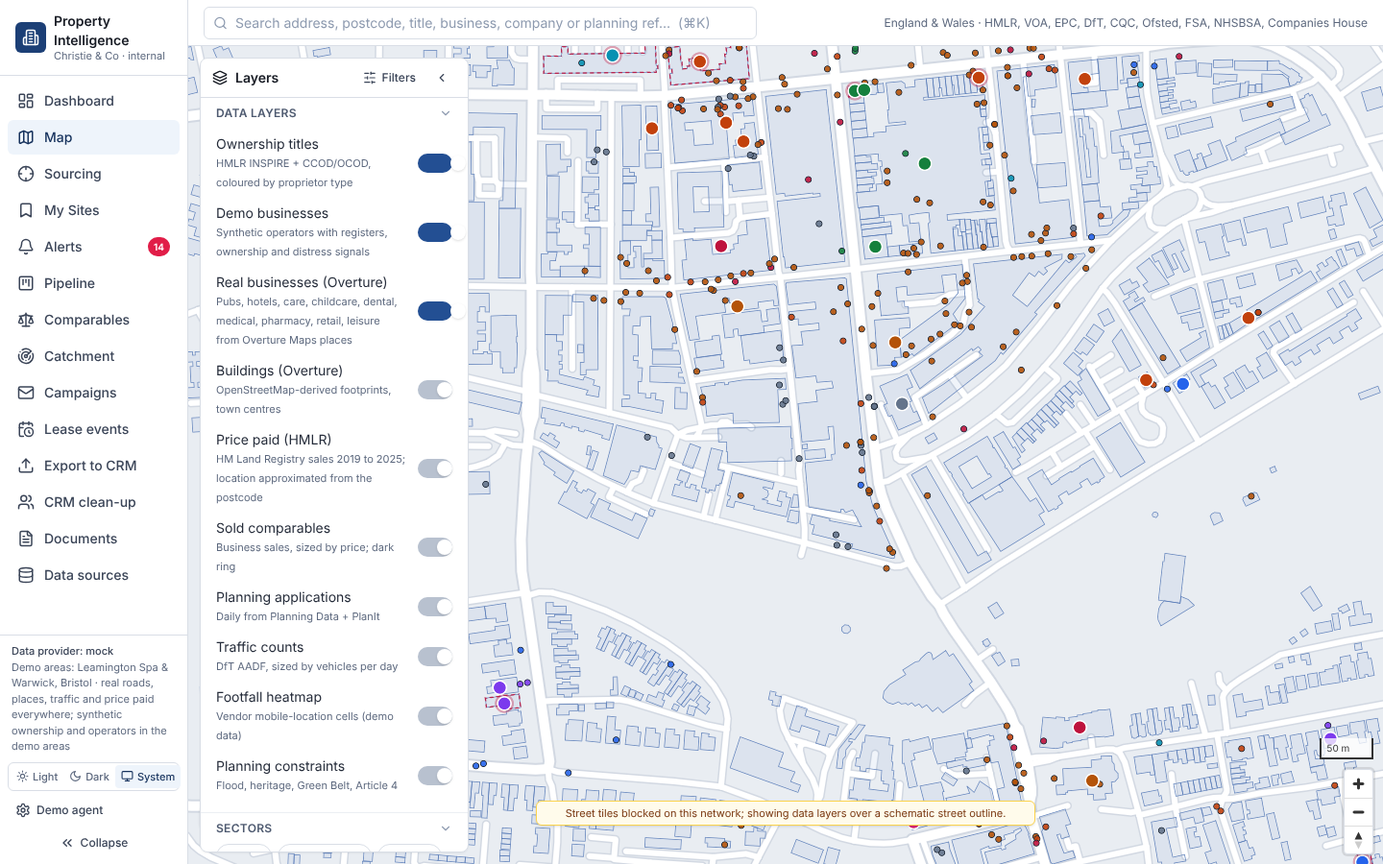
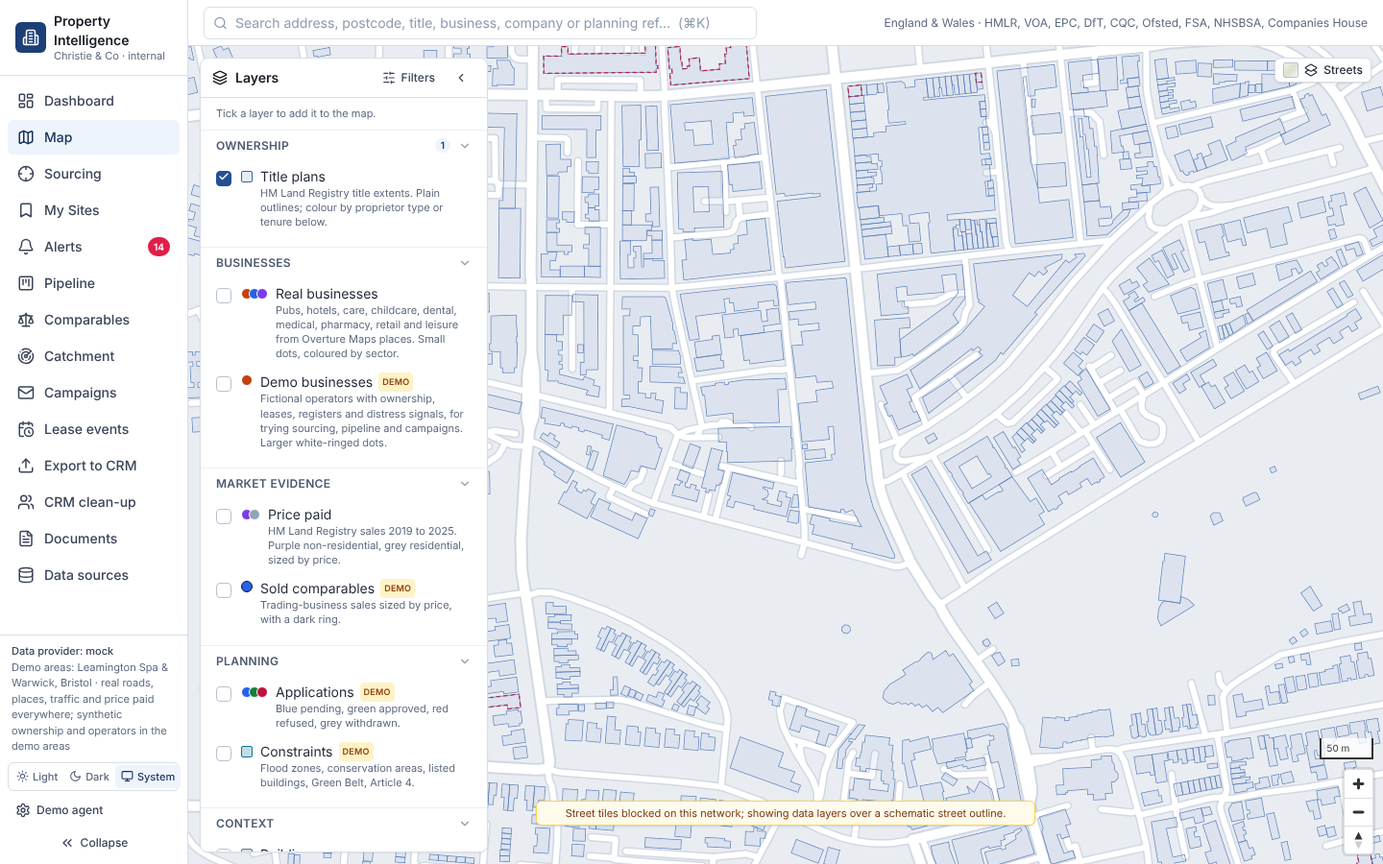
Land on title plans only; layer panel becomes grouped tick boxes
The map now opens pinless: only HM Land Registry title plans are on.
Every other layer is a tick box in the layer panel, grouped as
Ownership, Businesses, Market evidence, Planning and Context, each with
a legend swatch that matches the map symbol and a Demo tag on the
synthetic layers. A header line counts what is on and offers Clear all.

- Store defaults: titles on, everything else off; persist version 2
  drops previously saved layer choices once so existing browsers land
  on the new view too.
- Plotting a sourcing result or CRM match on the map ticks the demo
  business layer automatically so the highlight is visible.
- Sector chips only appear once a business layer is on.
- New Checkbox component (real input, keyboard focusable); tour and
  user guide updated.

Claude-Session: https://claude.ai/code/session_015vZgzRZrG7p5YZ5m8JabBE

diff --git a/src/components/map/LayerPanel.tsx b/src/components/map/LayerPanel.tsx
@@ -1,22 +1,74 @@
 import { useState } from 'react'
-import { Layers, ChevronLeft, SlidersHorizontal } from 'lucide-react'
-import { useUi } from '@/store/ui'
-import { Toggle, Chip, Collapsible, cx } from '@/components/ui'
+import { Layers, ChevronLeft, SlidersHorizontal, EyeOff } from 'lucide-react'
+import { useUi, PIN_LAYERS, type LayerKey } from '@/store/ui'
+import { Checkbox, Chip, Collapsible, cx } from '@/components/ui'
 import { SECTORS } from '@/data/types'
 import { SECTOR_COLOURS, OWNER_CATEGORY_COLOURS } from '@/lib/sectors'
 import { CONSTRAINT_COLOURS } from './MapView'
 
+/** Legend swatches that match the map symbols, so a tick box shows what it will put on the map. */
+const Dot = ({ fill, stroke = '#fff', size = 12, dashed = false }: { fill: string; stroke?: string; size?: number; dashed?: boolean }) => (
+  <span aria-hidden className={cx('mt-0.5 inline-block shrink-0 rounded-full', dashed && 'border-dashed')} style={{ width: size, height: size, background: fill, border: `${dashed ? 2 : 1.5}px ${dashed ? 'dashed' : 'solid'} ${stroke}` }} />
+)
+const Square = ({ fill, stroke }: { fill: string; stroke: string }) => <span aria-hidden className="mt-1 inline-block h-3 w-3 shrink-0 rounded-sm" style={{ background: fill, border: `1.5px solid ${stroke}` }} />
+const Multi = ({ colours }: { colours: string[] }) => (
+  <span aria-hidden className="mt-1 inline-flex shrink-0 -space-x-1">{colours.map((c, i) => <span key={i} className="h-3 w-3 rounded-full border border-white" style={{ background: c }} />)}</span>
+)
+
+interface Row { key: LayerKey; label: string; hint: string; swatch: React.ReactNode; demo?: boolean }
+interface Group { title: string; rows: Row[] }
+
+const GROUPS: Group[] = [
+  {
+    title: 'Ownership',
+    rows: [
+      { key: 'titles', label: 'Title plans', hint: 'HM Land Registry title extents. Plain outlines; colour by proprietor type or tenure below.', swatch: <Square fill="rgba(47,100,180,0.12)" stroke="#2f64b4" /> },
+    ],
+  },
+  {
+    title: 'Businesses',
+    rows: [
+      { key: 'poi', label: 'Real businesses', hint: 'Pubs, hotels, care, childcare, dental, medical, pharmacy, retail and leisure from Overture Maps places. Small dots, coloured by sector.', swatch: <Multi colours={[SECTOR_COLOURS.Pub, SECTOR_COLOURS.Hotel, SECTOR_COLOURS['Care Home']]} /> },
+      { key: 'businesses', label: 'Demo businesses', hint: 'Fictional operators with ownership, leases, registers and distress signals, for trying sourcing, pipeline and campaigns. Larger white-ringed dots.', swatch: <Dot fill={SECTOR_COLOURS.Pub} />, demo: true },
+    ],
+  },
+  {
+    title: 'Market evidence',
+    rows: [
+      { key: 'pricePaid', label: 'Price paid', hint: 'HM Land Registry sales 2019 to 2025. Purple non-residential, grey residential, sized by price.', swatch: <Multi colours={['#7c3aed', '#94a3b8']} /> },
+      { key: 'comparables', label: 'Sold comparables', hint: 'Trading-business sales sized by price, with a dark ring.', swatch: <Dot fill={SECTOR_COLOURS.Hotel} stroke="#111827" />, demo: true },
+    ],
+  },
+  {
+    title: 'Planning',
+    rows: [
+      { key: 'planning', label: 'Applications', hint: 'Blue pending, green approved, red refused, grey withdrawn.', swatch: <Multi colours={['#2563eb', '#15803d', '#be123c']} />, demo: true },
+      { key: 'constraints', label: 'Constraints', hint: 'Flood zones, conservation areas, listed buildings, Green Belt, Article 4.', swatch: <Square fill="rgba(14,116,144,0.25)" stroke="#0e7490" />, demo: true },
+    ],
+  },
+  {
+    title: 'Context',
+    rows: [
+      { key: 'buildings', label: 'Buildings', hint: 'Overture building footprints in the demo areas.', swatch: <Square fill="rgba(100,116,139,0.25)" stroke="#64748b" /> },
+      { key: 'traffic', label: 'Traffic counts', hint: 'Department for Transport count points sized by vehicles per day. Darker blue is a more recent count.', swatch: <Dot fill="#1e3a8a" size={14} /> },
+      { key: 'footfall', label: 'Footfall heatmap', hint: 'Mobile-location footfall bands (demo cells until a vendor feed is connected).', swatch: <Square fill="#f59e0b" stroke="#dc2626" />, demo: true },
+    ],
+  },
+]
+
 export function LayerPanel({ hidden = false }: { hidden?: boolean }) {
   const [open, setOpen] = useState(() => (typeof window !== 'undefined' ? window.innerWidth >= 1280 : true))
-  const { layers, toggleLayer, constraintKinds, setConstraintKinds, sectorFilter, setSectorFilter, setShowFilters, filters, highlightIds, highlightLabel, setHighlight, titleColour, setTitleColour } = useUi()
+  const { layers, setLayer, clearPins, constraintKinds, setConstraintKinds, sectorFilter, setSectorFilter, setShowFilters, filters, highlightIds, highlightLabel, setHighlight, titleColour, setTitleColour } = useUi()
   const activeFilterCount = [filters.sectors.length, filters.tenure ? 1 : 0, filters.distressOnly ? 1 : 0, filters.distressFlags.length, filters.ownerCategories.length, filters.leaseExpiringWithinMonths ? 1 : 0, filters.epcWorseThan ? 1 : 0, filters.minRateableValue ? 1 : 0, filters.excludeConstraints.length].reduce((a, b) => a + b, 0)
+  const pinCount = PIN_LAYERS.filter((k) => layers[k]).length
+  const anyBusinessLayer = layers.businesses || layers.poi || layers.comparables
 
   if (hidden) return null
   if (!open)
     return (
       <div className="absolute left-3 top-3 z-10 flex gap-2">
-        <button onClick={() => setOpen(true)} className="card flex items-center gap-2 px-3 py-2 text-sm font-medium">
-          <Layers size={16} /> Layers
+        <button onClick={() => setOpen(true)} className="card flex items-center gap-2 px-3 py-2 text-sm font-medium" data-tour="layers">
+          <Layers size={16} /> Layers{pinCount > 0 ? <span className="rounded-full bg-brand-600 px-1.5 text-[10px] text-white">{pinCount}</span> : null}
         </button>
         <button onClick={() => setShowFilters(true)} className={cx('card flex items-center gap-2 px-3 py-2 text-sm font-medium', activeFilterCount > 0 && 'text-brand-700')}>
           <SlidersHorizontal size={16} /> Filters{activeFilterCount > 0 ? ` (${activeFilterCount})` : ''}
@@ -25,7 +77,7 @@ export function LayerPanel({ hidden = false }: { hidden?: boolean }) {
     )
 
   return (
-    <div className="card absolute left-3 top-3 z-10 flex max-h-[calc(100%-24px)] w-[min(280px,calc(100%-24px))] flex-col overflow-hidden">
+    <div className="card absolute left-3 top-3 z-10 flex max-h-[calc(100%-24px)] w-[min(300px,calc(100%-24px))] flex-col overflow-hidden" data-tour="layers">
       <div className="flex items-center justify-between border-b border-ink-200 px-3 py-2">
         <div className="flex items-center gap-2 text-sm font-semibold">
           <Layers size={16} /> Layers
@@ -41,41 +93,26 @@ export function LayerPanel({ hidden = false }: { hidden?: boolean }) {
         </div>
       </div>
       <div className="overflow-y-auto">
+        <div className="flex items-center justify-between gap-2 border-b border-ink-100 px-4 py-2 text-[11px] text-ink-500">
+          <span>{pinCount === 0 ? 'Tick a layer to add it to the map.' : `${pinCount} layer${pinCount === 1 ? '' : 's'} on the map`}</span>
+          {pinCount > 0 && <button className="flex items-center gap-1 font-medium text-brand-700 hover:underline" onClick={clearPins}><EyeOff size={12} /> Clear all</button>}
+        </div>
         {highlightIds.length > 0 && (
           <div className="flex items-center justify-between gap-2 border-b border-amber-200 dark:border-amber-900/60 bg-amber-50 dark:bg-amber-950/40 px-3 py-2 text-xs text-amber-900 dark:text-amber-200">
             <span><span className="mr-1 inline-block h-2.5 w-2.5 rounded-full border border-amber-700 bg-yellow-300" />{highlightIds.length} highlighted{highlightLabel ? ` · ${highlightLabel}` : ''}</span>
             <button className="font-medium hover:underline" onClick={() => setHighlight([])}>clear</button>
           </div>
         )}
-        <Collapsible title="Data layers">
-          <Toggle checked={layers.titles} onChange={() => toggleLayer('titles')} label="Ownership titles" hint="HMLR INSPIRE + CCOD/OCOD, coloured by proprietor type" />
-          <Toggle checked={layers.businesses} onChange={() => toggleLayer('businesses')} label="Demo businesses" hint="Synthetic operators with registers, ownership and distress signals" />
-          <Toggle checked={layers.poi} onChange={() => toggleLayer('poi')} label="Real businesses (Overture)" hint="Pubs, hotels, care, childcare, dental, medical, pharmacy, retail, leisure from Overture Maps places" />
-          <Toggle checked={layers.buildings} onChange={() => toggleLayer('buildings')} label="Buildings (Overture)" hint="OpenStreetMap-derived footprints, town centres" />
-          <Toggle checked={layers.pricePaid} onChange={() => toggleLayer('pricePaid')} label="Price paid (HMLR)" hint="HM Land Registry sales 2019 to 2025; location approximated from the postcode" />
-          <Toggle checked={layers.comparables} onChange={() => toggleLayer('comparables')} label="Sold comparables" hint="Business sales, sized by price; dark ring" />
-          <Toggle checked={layers.planning} onChange={() => toggleLayer('planning')} label="Planning applications" hint="Daily from Planning Data + PlanIt" />
-          <Toggle checked={layers.traffic} onChange={() => toggleLayer('traffic')} label="Traffic counts" hint="DfT AADF, sized by vehicles per day" />
-          <Toggle checked={layers.footfall} onChange={() => toggleLayer('footfall')} label="Footfall heatmap" hint="Vendor mobile-location cells (demo data)" />
-          <Toggle checked={layers.constraints} onChange={() => toggleLayer('constraints')} label="Planning constraints" hint="Flood, heritage, Green Belt, Article 4" />
-        </Collapsible>
-        <Collapsible title="Sectors" right={sectorFilter.length ? <button className="text-[11px] text-brand-700" onClick={(e) => { e.stopPropagation(); setSectorFilter([]) }}>clear</button> : undefined}>
-          <div className="flex flex-wrap gap-1.5">
-            {SECTORS.filter((s) => s !== 'Other').map((s) => (
-              <Chip key={s} label={s} colour={SECTOR_COLOURS[s]} selected={sectorFilter.includes(s)} onClick={() => setSectorFilter(sectorFilter.includes(s) ? sectorFilter.filter((x) => x !== s) : [...sectorFilter, s])} />
-            ))}
-          </div>
-          <p className="mt-2 text-[11px] text-ink-500">Red halo = distress signal on operator or regulator record.</p>
-        </Collapsible>
-        {layers.constraints && (
-          <Collapsible title="Constraint types">
-            <div className="flex flex-wrap gap-1.5">
-              {Object.entries(CONSTRAINT_COLOURS).map(([k, c]) => (
-                <Chip key={k} label={k} colour={c} selected={constraintKinds.includes(k)} onClick={() => setConstraintKinds(constraintKinds.includes(k) ? constraintKinds.filter((x) => x !== k) : [...constraintKinds, k])} />
+        {GROUPS.map((g) => {
+          const on = g.rows.filter((r) => layers[r.key]).length
+          return (
+            <Collapsible key={g.title} title={g.title} right={on > 0 ? <span className="rounded-full bg-brand-50 px-1.5 text-[10px] font-semibold text-brand-700">{on}</span> : undefined}>
+              {g.rows.map((r) => (
+                <Checkbox key={r.key} checked={layers[r.key]} onChange={(v) => setLayer(r.key, v)} swatch={r.swatch} hint={r.hint} label={<span className="flex items-center gap-1.5">{r.label}{r.demo && <span className="rounded bg-amber-100 px-1 text-[9px] font-semibold uppercase tracking-wide text-amber-800 dark:bg-amber-900/50 dark:text-amber-200">Demo</span>}</span>} />
               ))}
-            </div>
-          </Collapsible>
-        )}
+            </Collapsible>
+          )
+        })}
         <Collapsible title="Title colouring" defaultOpen={false}>
           <div className="mb-2 flex flex-wrap gap-1.5">
             {([['none', 'Plain'], ['owner', 'Proprietor type'], ['tenure', 'Tenure']] as const).map(([v, l]) => <Chip key={v} label={l} selected={titleColour === v} onClick={() => setTitleColour(v)} />)}
@@ -89,6 +126,25 @@ export function LayerPanel({ hidden = false }: { hidden?: boolean }) {
           </ul>
           <ul className="mt-1 space-y-1 text-xs"><li className="flex items-center gap-2"><span className="h-3 w-3 rounded-sm border-2 border-dashed border-rose-700" /> Dashed red: distress signal on occupier or owner (zoom 16+)</li><li className="text-ink-500">Titles draw from zoom 14.5; outlines follow the real building footprints in the demo areas.</li></ul>
         </Collapsible>
+        {anyBusinessLayer && (
+          <Collapsible title="Sectors" right={sectorFilter.length ? <button className="text-[11px] text-brand-700" onClick={(e) => { e.stopPropagation(); setSectorFilter([]) }}>clear</button> : undefined}>
+            <div className="flex flex-wrap gap-1.5">
+              {SECTORS.filter((s) => s !== 'Other').map((s) => (
+                <Chip key={s} label={s} colour={SECTOR_COLOURS[s]} selected={sectorFilter.includes(s)} onClick={() => setSectorFilter(sectorFilter.includes(s) ? sectorFilter.filter((x) => x !== s) : [...sectorFilter, s])} />
+              ))}
+            </div>
+            <p className="mt-2 text-[11px] text-ink-500">Pick sectors to show only those businesses. Red halo on a demo business = distress signal.</p>
+          </Collapsible>
+        )}
+        {layers.constraints && (
+          <Collapsible title="Constraint types">
+            <div className="flex flex-wrap gap-1.5">
+              {Object.entries(CONSTRAINT_COLOURS).map(([k, c]) => (
+                <Chip key={k} label={k} colour={c} selected={constraintKinds.includes(k)} onClick={() => setConstraintKinds(constraintKinds.includes(k) ? constraintKinds.filter((x) => x !== k) : [...constraintKinds, k])} />
+              ))}
+            </div>
+          </Collapsible>
+        )}
         {layers.footfall && (
           <Collapsible title="Footfall legend" defaultOpen>
             <div className="h-2 w-full rounded-full" style={{ background: 'linear-gradient(90deg,#fef3c7,#fcd34d,#f59e0b,#dc2626,#7f1d1d)' }} />

diff --git a/src/store/ui.ts b/src/store/ui.ts
@@ -48,6 +48,8 @@ export interface UiState {
   titleColour: TitleColour
   toggleLayer: (k: LayerKey) => void
   setLayer: (k: LayerKey, v: boolean) => void
+  setLayers: (patch: Partial<Record<LayerKey, boolean>>) => void
+  clearPins: () => void
   setConstraintKinds: (k: string[]) => void
   setSectorFilter: (s: Sector[]) => void
   select: (s: Selected) => void
@@ -108,10 +110,15 @@ const repairIds = (items: WatchItem[]) => {
   })
 }
 
+/** Landing state: title plans only. Every pin layer is opt-in from the layer panel. */
+export const DEFAULT_LAYERS: Record<LayerKey, boolean> = { titles: true, businesses: false, poi: false, buildings: false, pricePaid: false, comparables: false, planning: false, traffic: false, footfall: false, constraints: false, satellite: false }
+/** Layers that put pins or shading on the map (everything except the title plans). */
+export const PIN_LAYERS: LayerKey[] = ['businesses', 'poi', 'buildings', 'pricePaid', 'comparables', 'planning', 'traffic', 'footfall', 'constraints']
+
 export const useUi = create<UiState>()(
   persist(
     (set, get) => ({
-      layers: { titles: true, businesses: true, poi: true, buildings: false, pricePaid: false, comparables: false, planning: false, traffic: false, footfall: false, constraints: false, satellite: false },
+      layers: DEFAULT_LAYERS,
       constraintKinds: ['Flood Zone 3', 'Flood Zone 2', 'Conservation Area', 'Listed Building', 'Article 4', 'Green Belt'],
       sectorFilter: [],
       selected: null,
@@ -134,6 +141,8 @@ export const useUi = create<UiState>()(
       titleColour: 'none',
       toggleLayer: (k) => set((s) => ({ layers: { ...s.layers, [k]: !s.layers[k] } })),
       setLayer: (k, v) => set((s) => ({ layers: { ...s.layers, [k]: v } })),
+      setLayers: (patch) => set((s) => ({ layers: { ...s.layers, ...patch } })),
+      clearPins: () => set((s) => ({ layers: { ...s.layers, ...Object.fromEntries(PIN_LAYERS.map((k) => [k, false])) } as Record<LayerKey, boolean>, highlightIds: [], highlightLabel: undefined })),
       setConstraintKinds: (constraintKinds) => set({ constraintKinds }),
       setSectorFilter: (sectorFilter) => set({ sectorFilter }),
       select: (selected) => set({ selected }),
@@ -149,7 +158,8 @@ export const useUi = create<UiState>()(
       updateWatch: (id, patch) => set((s) => ({ watchlist: s.watchlist.map((w) => (w.id === id ? { ...w, ...patch } : w)) })),
       isWatched: (entityType, entityId) => get().watchlist.some((w) => w.entityType === entityType && w.entityId === entityId),
       addProject: (p) => set((s) => (s.projects.includes(p) ? s : { projects: [...s.projects, p] })),
-      setHighlight: (highlightIds, highlightLabel) => set({ highlightIds, highlightLabel }),
+      // Plotting a list on the map switches the demo-business pins on so the highlight is visible.
+      setHighlight: (highlightIds, highlightLabel) => set((s) => ({ highlightIds, highlightLabel, layers: highlightIds.length ? { ...s.layers, businesses: true } : s.layers })),
       setAlertRules: (patch) => set((s) => ({ alertRules: { ...s.alertRules, ...patch } })),
       setTheme: (theme) => set({ theme }),
       setStage: (id, stage) => set((s) => ({ watchlist: s.watchlist.map((w) => (w.id === id ? { ...w, stage, stageChangedAt: new Date().toISOString() } : w)) })),
@@ -166,6 +176,13 @@ export const useUi = create<UiState>()(
     }),
     {
       name: 'cpi-ui',
+      // v2: the map lands pinless (titles only). Older saved layer choices are dropped once so everyone gets the new landing view.
+      version: 2,
+      migrate: (persisted, version) => {
+        const p = (persisted ?? {}) as Record<string, unknown>
+        if (version < 2) delete p.layers
+        return p
+      },
       partialize: (s) => ({ basemap: s.basemap, titleColour: s.titleColour, audit: s.audit, crmTemplates: s.crmTemplates, tourDone: s.tourDone, osKey: s.osKey, layers: s.layers, constraintKinds: s.constraintKinds, mapView: s.mapView, watchlist: s.watchlist, projects: s.projects, filters: s.filters, alertRules: s.alertRules, theme: s.theme, campaigns: s.campaigns }),
       // Tolerate older or partial persisted shapes: fill gaps from defaults instead of crashing.
       merge: (persisted, current) => {

diff --git a/src/components/ui/index.tsx b/src/components/ui/index.tsx
@@ -1,5 +1,5 @@
 import { type ReactNode, type ButtonHTMLAttributes, type InputHTMLAttributes, type SelectHTMLAttributes, useState } from 'react'
-import { X, ChevronDown, Loader2 } from 'lucide-react'
+import { X, ChevronDown, Loader2, Check } from 'lucide-react'
 
 export const cx = (...c: (string | false | undefined | null)[]) => c.filter(Boolean).join(' ')
 
@@ -37,6 +37,25 @@ export function Select({ children, className, ...rest }: SelectHTMLAttributes<HT
       </select>
       <ChevronDown size={14} className="pointer-events-none absolute right-2 top-1/2 -translate-y-1/2 text-ink-400" />
     </div>
+  )
+}
+
+/** Tick box with a label, optional hint and colour swatch. Used for map layers, where a tick reads as "shown". */
+export function Checkbox({ checked, onChange, label, hint, colour, swatch, disabled }: { checked: boolean; onChange: (v: boolean) => void; label: ReactNode; hint?: string; colour?: string; swatch?: ReactNode; disabled?: boolean }) {
+  return (
+    <label className={cx('flex items-start gap-2.5 py-1.5', disabled ? 'cursor-not-allowed opacity-50' : 'cursor-pointer')}>
+      <span className="relative mt-0.5 h-4 w-4 shrink-0">
+        <input type="checkbox" className="peer h-4 w-4 cursor-pointer appearance-none rounded border border-ink-300 bg-surface transition-colors checked:border-brand-600 checked:bg-brand-600 focus-visible:outline focus-visible:outline-2 focus-visible:outline-offset-1 focus-visible:outline-brand-500 disabled:cursor-not-allowed" checked={checked} disabled={disabled} onChange={(e) => onChange(e.target.checked)} />
+        <Check size={12} strokeWidth={3} aria-hidden className="pointer-events-none absolute left-0.5 top-0.5 text-white opacity-0 peer-checked:opacity-100" />
+      </span>
+      <span className="flex min-w-0 flex-1 items-start gap-2 text-sm text-ink-800">
+        {swatch ?? (colour && <span className="mt-1 h-3 w-3 shrink-0 rounded-full border border-black/10" style={{ background: colour }} />)}
+        <span className="min-w-0">
+          {label}
+          {hint && <span className="block text-[11px] leading-snug text-ink-500">{hint}</span>}
+        </span>
+      </span>
+    </label>
   )
 }
 

diff --git a/src/components/Tour.tsx b/src/components/Tour.tsx
@@ -8,7 +8,7 @@ interface Step { title: string; body: string; route?: string; target?: string }
 const STEPS: Step[] = [
   { title: 'Welcome', body: 'Property Intelligence brings ownership, operators, regulators, planning, rates, traffic and sales evidence onto one map, with Christie & Co sector registers that no mapping product carries. This tour takes a minute.' },
   { title: 'Search anything', body: 'Addresses, postcodes, title numbers, business and company names, planning references. Press ⌘K or Ctrl+K from any page.', target: 'search' },
-  { title: 'The map', body: 'Ownership parcels coloured by proprietor type, demo and real businesses by sector, real HM Land Registry sales, buildings and DfT traffic. Switch layers on the left; click anything for its panel.', route: '/map', target: 'nav-map' },
+  { title: 'The map', body: 'You land on title plans only. Tick layers on the left to add real businesses, HM Land Registry sales, planning, traffic or the demo operators, and untick to take them off again. Click anything for its panel.', route: '/map', target: 'layers' },
   { title: 'Sourcing', body: 'Fifteen filters across sector, tenure, owner type, rateable value, lease expiry, EPC, regulator rating and distress signals. Results sort by the likely-to-transact score and export to CSV or straight into the CRM.', route: '/sourcing', target: 'nav-sourcing' },
   { title: 'Pipeline', body: 'Drag sites between stages. Fees are weighted by stage and every stage prints as a client report.', route: '/pipeline', target: 'nav-pipeline' },
   { title: 'Comparables and catchment', body: 'Sold trading businesses with price per bed, place or room beside real Land Registry sales, and a catchment view that counts real supply against the population around any site.', route: '/comparables', target: 'nav-comparables' },

diff --git a/docs/USER-GUIDE.md b/docs/USER-GUIDE.md
@@ -8,15 +8,19 @@ Use the search bar at the top (or press ⌘K / Ctrl+K). It accepts an address, p
 
 ## Reading the map
 
-The basemap picker at the top right of the map offers Streets, Minimal (grey), Dark, Satellite, Hybrid (imagery with roads and labels) and, once an Ordnance Survey key is set in Settings, OS Light and OS Road. Title outlines are plain by default and draw from zoom 14.5; **Title colouring** in the layer panel switches them to proprietor type or tenure, and a dashed red outline marks a distress signal from zoom 16. In the demo areas the titles follow the real building footprints.
+The map opens on **title plans only**: no pins. The layer panel on the left is a set of tick boxes grouped as Ownership, Businesses, Market evidence, Planning and Context. Tick a layer to add it, untick to remove it, and **Clear all** takes every pin off again. A count on each group shows what is on. Layers marked **Demo** are synthetic (fictional operators, comparables, planning and constraints); everything else is real open data. Your ticks are remembered in the browser.
 
+The basemap picker at the top right offers Streets, Minimal (grey), Dark, Satellite, Hybrid (imagery with roads and labels) and, once an Ordnance Survey key is set in Settings, OS Light and OS Road. Title outlines are plain by default and draw from zoom 14.5; **Title colouring** in the layer panel switches them to proprietor type or tenure, and a dashed red outline marks a distress signal from zoom 16. In the demo areas the titles follow the real building footprints.
 
-- **Ownership titles** are shaded by proprietor type: blue for companies, grey for private individuals, green for local authorities, pink for charities, purple for overseas companies. A red outline means the occupier or owner has a distress signal.
-- **Trading businesses** are dots coloured by sector. A red halo marks distress. Zoom in for names.
-- **Planning applications** are dots coloured by status (blue pending, green approved, red refused).
-- **Traffic counts** are DfT count points sized by vehicles per day; dark blue means counted in the last three years.
+- **Title plans** shaded by proprietor type when colouring is on: blue for companies, grey for private individuals, green for local authorities, pink for charities, purple for overseas companies.
+- **Real businesses** are small dark-ringed dots coloured by sector, from Overture Maps places, nationwide from zoom 13. Names appear from zoom 16.5.
+- **Demo businesses** are larger white-ringed dots coloured by sector, in the demo areas only. A red halo marks a distress signal; a yellow halo marks a highlight from Sourcing or the CRM clean-up. Plotting a list on the map ticks this layer for you.
+- **Price paid** is HM Land Registry sales: purple non-residential, grey residential, sized by price.
+- **Sold comparables** are sized by price with a dark ring.
+- **Applications** are coloured by status (blue pending, green approved, red refused, grey withdrawn). **Constraints** show flood zones, conservation areas, listed buildings, Green Belt, Article 4 and TPOs; pick types once the layer is on.
+- **Traffic counts** are Department for Transport count points sized by vehicles per day; darker blue means a more recent count.
 - **Footfall** is a hexagonal heatmap from the mobile-location vendor (demo cells today).
-- **Constraints** show flood zones, conservation areas, listed buildings, Green Belt, Article 4 and TPOs; pick types in the layer panel.
+- The **Sectors** chips appear once a business layer is on and narrow the dots to the sectors you pick.
 - Hover any feature for a summary; click to open the info panel. Press Escape to close it.
 
 ## The info panel

diff --git a/docs/screenshots/README.md b/docs/screenshots/README.md
@@ -18,7 +18,8 @@ Captured headlessly from the mock dataset with `npm run e2e` (basemap tiles were
 | ![National coverage: Birmingham places, price paid and traffic from the GB tiles](national-birmingham.png) | ![Sourcing with the likely-to-transact score](sourcing-score.png) |
 | ![Export to CRM with the licence gate](crm-export.png) | ![Audit log](audit.png) |
 | ![Bristol demo area on real streets](bristol.png) | ![Branded site report](report-frame.png) |
-| ![Guided tour](tour.png) | ![Map landing: titles on real footprints](map-landing.png) |
+| ![Guided tour](tour.png) | ![Map landing: title plans only, no pins](map-landing.png) |
+| ![Layer tick boxes: real businesses, price paid and traffic ticked](map-layers-ticked.png) | |
 | ![Basemap picker](basemaps.png) | ![Title colouring by proprietor type](title-colouring.png) |
 
 Full printable site report: [report.png](report.png)
